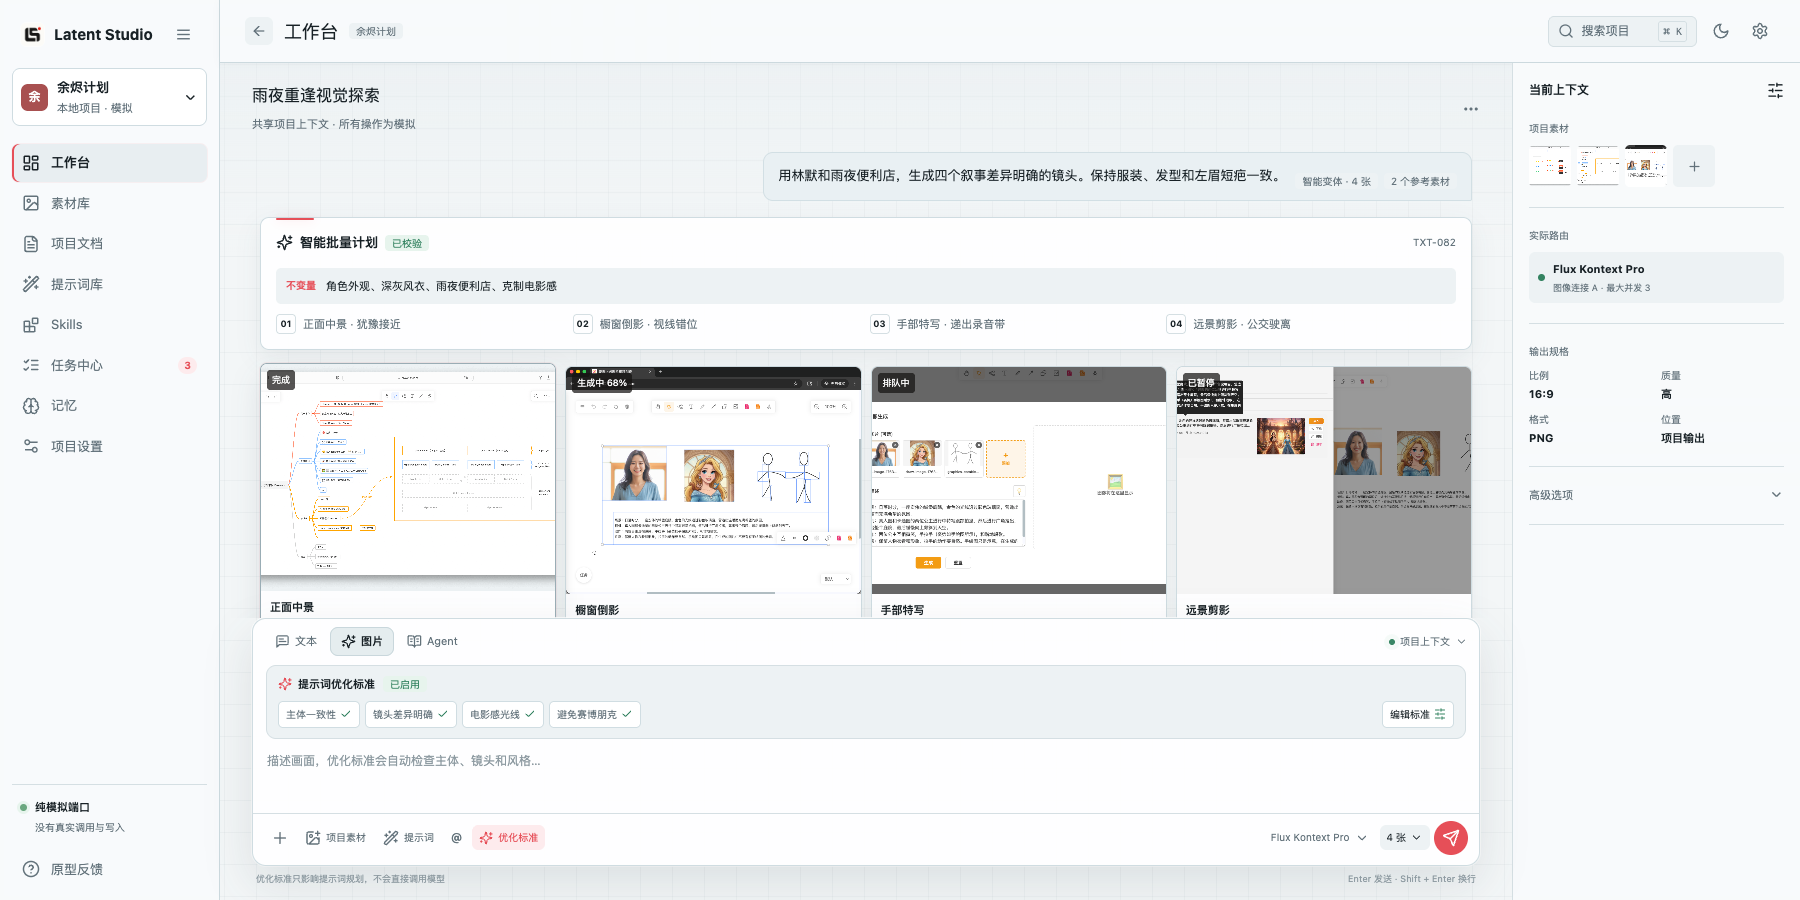
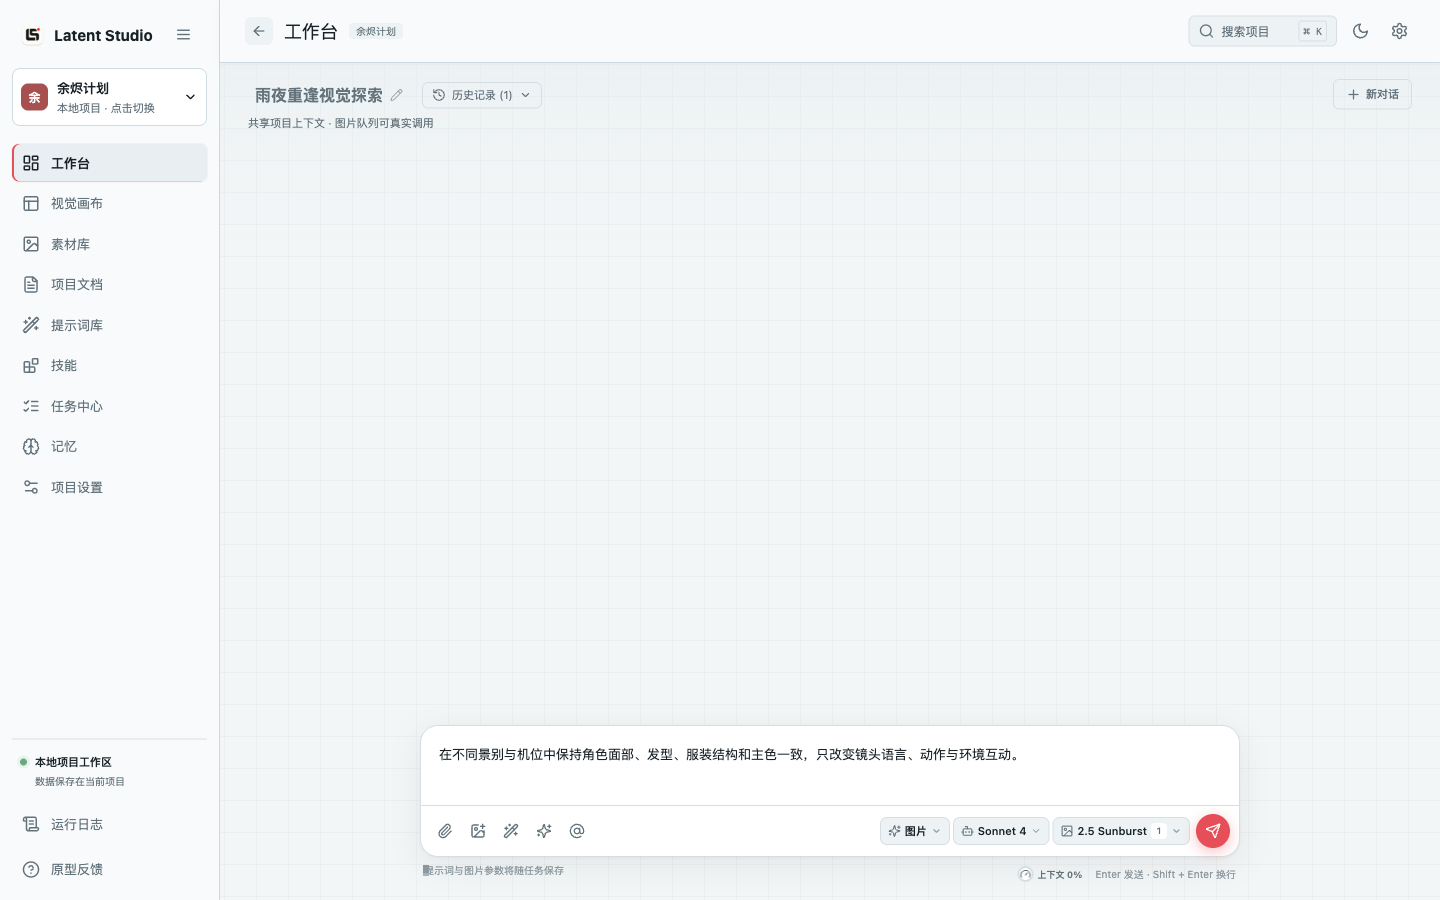
docs: align screenshots and highlight prompt library

diff --git a/README.md b/README.md
@@ -1,14 +1,48 @@
 # Latent Studio
 
-Latent Studio 是面向 macOS 的本地优先 AI 图像工作站。它把文本对话、图片生成、Agent 执行、项目文档、素材、提示词、任务和图片版本放在同一个项目上下文中，适合需要反复迭代画面的个人创作者。
+Latent Studio 是面向 macOS 的本地优先 AI 图像工作站。它把图片生成、文本对话、Agent 执行、提示词库、项目资料和图片版本放在同一个项目上下文中，适合需要持续积累视觉资产并反复迭代画面的个人创作者。
 
 > 当前为源码预览版，尚未提供签名、公证的 macOS 安装包。使用真实模型前，需要在设置中配置自己的服务商连接和 API Key。
 
 <p align="center">
-  <img src="docs/screenshots/workbench.png" alt="Latent Studio 工作台，展示智能批量计划、生成任务和项目上下文" width="100%">
+  <img src="docs/screenshots/start.png" alt="Latent Studio 当前版本的项目启动页" width="100%">
 </p>
 
-_截图使用内置演示项目和模拟数据，不包含个人提示词、API Key 或使用记录。_
+_截图来自当前版本界面，使用隔离演示项目和演示数据，不包含个人提示词、API Key 或使用记录。_
+
+## 核心能力：提示词库
+
+Latent Studio 的提示词库不只是文本收藏夹。它把公开提示词源、个人提示词、项目模板和 Agent 检索连接成一条可持续复用的工作流。
+
+<p align="center">
+  <img src="docs/screenshots/prompt-library.png" alt="Latent Studio 提示词库，展示个人资产、六个公开来源、分类筛选和一键应用" width="100%">
+</p>
+
+_图中的 9 条内容均为隔离演示数据；六个公开源各放入 1 条示例索引，用来展示当前界面的归档与筛选方式，不代表真实仓库条目总数。_
+
+| 能力 | 当前实现 |
+| --- | --- |
+| 多源聚合 | 可同步 6 个正式公开源，并保留来源标识、原始链接、分类、分组、标签、中英文字段和远程预览地址 |
+| 结构化本地索引 | 同步提示词结构化数据，不把公开仓库的全部样例图作为项目文件导入 |
+| 增量同步 | 跳过未变化条目，更新发生变化的条目，并清理上游已删除的导入项；个人副本不受同步删除影响 |
+| 个人与项目资产 | 支持提示词、参数化模板和风格片段，可存为全局或项目范围，并管理版本、收藏、分类、分组和标签 |
+| 两级检索 | 默认使用本地关键词检索；可选安装本地嵌入模型进行语义检索，模型不可用时自动回退到关键词检索 |
+| 直接进入创作 | 可复制或一键填入图片工作台；Agent 也能检索提示词库并读取完整提示词继续执行任务 |
+
+当前桌面版本支持同步以下来源：
+
+- [YouMind GPT Image 2](https://github.com/YouMind-OpenLab/awesome-gpt-image-2)
+- [wangrunlin GPT Image 2.5](https://github.com/wangrunlin/awesome-gpt-image-2-5-prompts)
+- [AI Visual Prompt Cookbook](https://github.com/VigoZhao/AI-Visual-Prompt-Cookbook)
+- [stretchcloud GPT Image 2.5](https://github.com/stretchcloud/awesome-gpt-image-prompt-2.5)
+- [NanmiCoder Open Image Prompts](https://github.com/NanmiCoder/open-image-prompts)
+- [freestylefly GPT Image 2](https://github.com/freestylefly/awesome-gpt-image-2)
+
+<p align="center">
+  <img src="docs/screenshots/workbench.png" alt="从提示词库一键应用后，提示词已填入当前版本图片工作台" width="100%">
+</p>
+
+_上图展示“一键应用”后的当前工作台。项目名、提示词和模型连接均为演示数据，截图未执行真实模型请求。_
 
 ## 主要功能
 
@@ -32,38 +66,13 @@ _截图使用内置演示项目和模拟数据，不包含个人提示词、API 
 - **素材库**：管理角色、场景、道具、风格参考和生成结果，保留固定提示词与关联任务。
 - **项目文档**：查看、编辑和引用 Markdown、TXT 与 JSON 文档；PDF、Word 和图片可作为输入附件。
 - **视觉画布**：将素材、文档和备注放到自由画布，建立角色参考、镜头约束等内容连接。
-
-<table>
-  <tr>
-    <td width="50%"><img src="docs/screenshots/visual-canvas.png" alt="视觉画布中的素材、备注和内容连接"></td>
-    <td width="50%"><img src="docs/screenshots/asset-library.png" alt="深色主题下的结构化素材库"></td>
-  </tr>
-  <tr>
-    <td align="center"><sub>视觉画布：组织参考、备注和关系</sub></td>
-    <td align="center"><sub>素材库：按角色、场景、道具和结果分类</sub></td>
-  </tr>
-</table>
-
-### 提示词库与 Skills
-
-- 提示词可保存为直接提示词、可参数化模板或风格片段，并选择当前项目或全局范围。
-- 提供搜索、分类、标签、收藏、版本和来源追踪，支持同步多个公开图像提示词源。
-- 可选本地嵌入模型用于语义检索；未安装时仍可使用普通搜索。
-- Skill 支持全局或项目范围、显式 `/Skill` 选择、Agent 自动匹配、信任状态和项目授权。
-
-<p align="center">
-  <img src="docs/screenshots/prompt-editor.png" alt="提示词编辑器，支持提示词、模板、风格和项目范围" width="78%">
-</p>
+- **Skills**：支持全局或项目范围、显式 `/Skill` 选择、Agent 自动匹配、信任状态和项目授权。
 
 ### 任务、局部修改与版本
 
 - 任务中心统一展示文本与图片任务，支持搜索、排序、批量选择、暂停、继续、取消、重试、归档和删除。
 - 图片编辑器支持画笔、矩形、箭头、文字、裁剪、擦除、撤销和重做，标注层与原图分离。
 - 局部修改会保留父版本、实际提示词、模型、参考图和生成参数，可并排对比原图与子版本。
-
-<p align="center">
-  <img src="docs/screenshots/image-version-compare.png" alt="图片局部修改的原图与子版本对比" width="88%">
-</p>
 
 ## 本地优先与隐私边界
 
